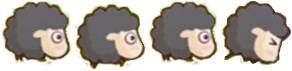
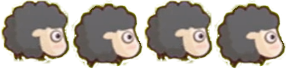
Go button and player sheep

diff --git a/js-final-project/bump-sheep/js/SheepGame.js b/js-final-project/bump-sheep/js/SheepGame.js
@@ -3,13 +3,12 @@ function SheepGame() {
     var width = 897;
     var height = 668;
 
-    var laneWidth = 897;
-    var laneHeight = 450;
-
     var sX = 0;
     var sY = 0;
 
     var sheep; //sheep instance
+    var playerSheep; //player sheep instance
+
     var tiles; // tile map
     var tileSize = 90;
 
@@ -25,8 +24,9 @@ function SheepGame() {
         canvas.width = width;
         canvas.height = height;
 
-        sheep = new Sheep(canvas, ctx, 314, 70, 5);
         tiles = new Tiles();
+        sheep = new Sheep(canvas, ctx, 314, 70, 5);
+        playerSheep = new PlayerSheep(canvas, ctx, 286, 70, 5);
 
         that.startGame();
 
@@ -35,11 +35,19 @@ function SheepGame() {
     this.startGame = function() {
         //main loop
         ctx.clearRect(0, 0, width, height);
-        that.renderMap();
-        sheep.init();
 
-        ctx.drawImage(bushRight, 0, 0, 88, 565, laneWidth - 88, 103, 88, 565);
+        //map creation
+        that.renderMap();
+
+        sheep.init();
+        playerSheep.init(that.y);
+
+        ctx.drawImage(bushRight, 0, 0, 88, 565, width - 88, 103, 88, 565);
         ctx.drawImage(bushLeft, 0, 0, 88, 565, 0, 103, 88, 565);
+
+        //go buttons
+        that.goBtnControl();
+
         requestAnimationFrame(that.startGame)
     }
 
@@ -48,7 +56,6 @@ function SheepGame() {
             for (var row = 0; row < mapW; row++) {
                 switch (gameMap[((col * mapW) + row)]) {
                     case 1:
-                        console.log(tiles);
                         tiles.x = row * tileSize;
                         tiles.y = col * tileSize;
                         tiles.tile1();
@@ -68,11 +75,46 @@ function SheepGame() {
                         tiles.tile3();
                         tiles.draw(ctx);
                         break;
+
+                    case 4:
+                        tiles.x = row * tileSize;
+                        tiles.y = col * tileSize;
+                        tiles.tile4();
+                        tiles.draw(ctx);
+                        break;
                 }
             }
         }
     }
 
+    this.goBtnControl = function() {
+        var btnWidth = 76;
+        var btnHeight = 76;
+        var btnX = 45;
+        var btnY;
+
+        //button draw
+        for (var i = 180; i <= tileSize * 6; i += 90) {
+            btnY = i;
+            ctx.drawImage(button, 0, 0, btnWidth, btnHeight, btnX, btnY, btnWidth, btnHeight);
+        }
+
+        //click action
+        canvas.addEventListener('mousedown', function(event) {
+            for (var i = 180; i <= tileSize * 6; i += 90) {
+                btnY = i;
+                let rect = canvas.getBoundingClientRect();
+                let clickX = event.clientX - rect.left;
+                let clickY = event.clientY - rect.top;
+                if (clickX >= btnX && clickX <= btnX + btnWidth &&
+                    clickY >= btnY && clickY <= btnY + btnHeight) {
+
+                    playerSheep.init(btnY);
+                }
+            }
+
+        });
+    }
 }
 
 var game = new SheepGame();

diff --git a/js-final-project/bump-sheep/js/Sheep.js b/js-final-project/bump-sheep/js/Sheep.js
@@ -8,26 +8,14 @@ function Sheep(canvas, ctx, width, height, weight) {
     var sX;
     var sY = 0;
     this.x = canvas.width - 75;
-    this.y = 170;
+    this.y;
 
     var tickCount = 0;
     var ticksPerFrame = 5;
-
-
     var currentFrame = 0;
+
     var that = this;
-
     this.lane;
-
-    // var smallWhite = {
-    //     width: 314 / numberOfFrames,
-    //     height: 70,
-    //     weight: 5,
-    //     draw: function() {
-    //         sX = currentFrame * smallWhite.width;
-    //         ctx.drawImage(smallWhiteSprite, sX, sY, this.width, this.height, that.x, that.y, this.width, this.height);
-    //     }
-    // }
 
     this.init = function() {
         that.draw();
@@ -46,25 +34,28 @@ function Sheep(canvas, ctx, width, height, weight) {
         } else
             return 530;
     }
+    that.y = that.getRandomPosition();
 
     this.update = function() {
         tickCount += 1;
-
         if (tickCount > ticksPerFrame) {
             tickCount = 0;
+
             if (currentFrame < numberOfFrames - 1) {
                 currentFrame++;
             } else currentFrame = 0;
         }
-
         that.x -= 2;
-
     }
 
     this.draw = function() {
         that.update();
         sX = currentFrame * that.width;
-        ctx.drawImage(smallWhiteSprite, sX, sY, this.width, this.height, that.x, that.y, this.width, this.height);
+
+        if (this.weight == 5) {
+            ctx.drawImage(smallWhiteSprite, sX, sY, this.width, this.height, that.x, that.y, this.width, this.height);
+        }
+
         // mediumWhite.draw();
         // smallWhite.draw();
     }

diff --git a/js-final-project/bump-sheep/js/PlayerSheep.js b/js-final-project/bump-sheep/js/PlayerSheep.js
@@ -1,12 +1,45 @@
-function PlayerSheep(width, height, weight) {
-    this.width = width;
+function PlayerSheep(canvas, ctx, width, height, weight) {
+
+    var numberOfFrames = 4;
+    this.width = width / numberOfFrames;
     this.height = height;
     this.weight = weight;
 
     var sX;
-    var sY;
-    this.x;
+    var sY = 0;
+    this.x = 75;
     this.y;
+
+    var tickCount = 0;
+    var ticksPerFrame = 5;
+    var currentFrame = 0;
+
+    var that = this;
+
+    this.init = function(btnY) {
+        this.y = btnY;
+        that.draw();
+    }
+    this.update = function() {
+
+        tickCount += 1;
+        if (tickCount > ticksPerFrame) {
+            tickCount = 0;
+            if (currentFrame < numberOfFrames - 1) {
+                currentFrame++;
+            } else currentFrame = 0;
+        }
+        that.x += 2;
+    }
+
+    this.draw = function() {
+        that.update();
+
+        sX = currentFrame * that.width;
+        if (this.weight == 5) {
+            ctx.drawImage(smallBlackSprite, sX, sY, this.width, this.height, this.x, this.y, this.width, this.height);
+        }
+    }
 
 
 }

diff --git a/js-final-project/bump-sheep/js/loader.js b/js-final-project/bump-sheep/js/loader.js
@@ -5,7 +5,7 @@ var bushLeft = new Image();
 bushLeft.src = 'images/bush2.png'
 
 var button = new Image();
-button.src = ''
+button.src = 'images/button.png'
 
 var smallWhiteSprite = new Image();
 smallWhiteSprite.src = 'images/small-white.png';
@@ -20,5 +20,5 @@ var superLargeWhiteSprite = new Image();
 superLargeWhiteSprite.src = 'images/super-large-white.png'
 
 //black sheep
-var smallWhiteSprite = new Image();
-smallWhiteSprite.src = 'images/small-black.png';
+var smallBlackSprite = new Image();
+smallBlackSprite.src = 'images/small-black.png';

diff --git a/js-final-project/bump-sheep/js/Map.js b/js-final-project/bump-sheep/js/Map.js
@@ -7,10 +7,10 @@ var mapW = 10,
 var gameMap = [
     0, 0, 0, 0, 0, 0, 0, 0, 0, 0,
     0, 0, 0, 0, 0, 0, 0, 0, 0, 0,
-    1, 3, 1, 2, 1, 3, 2, 3, 1, 1,
-    1, 1, 2, 1, 3, 1, 3, 2, 3, 1,
-    1, 3, 1, 2, 1, 3, 2, 3, 1, 1,
-    1, 1, 2, 1, 3, 1, 3, 2, 3, 1,
-    1, 3, 1, 2, 1, 3, 2, 3, 1, 1,
+    4, 3, 1, 2, 1, 3, 2, 3, 1, 4,
+    4, 1, 2, 1, 3, 1, 3, 2, 3, 4,
+    4, 3, 1, 2, 1, 3, 2, 3, 1, 4,
+    4, 1, 2, 1, 3, 1, 3, 2, 3, 4,
+    4, 3, 1, 2, 1, 3, 2, 3, 1, 4,
     0, 0, 0, 0, 0, 0, 0, 0, 0, 0,
 ];

diff --git a/js-final-project/bump-sheep/js/Tiles.js b/js-final-project/bump-sheep/js/Tiles.js
@@ -27,6 +27,11 @@ function Tiles() {
         that.sX = 2 * that.width;
     }
 
+    this.tile4 = function() {
+        this.type = 4;
+        that.sX = 3 * that.width;
+    }
+
     this.draw = function(ctx) {
         ctx.drawImage(tiles, that.sX, that.sY, that.width, that.height, that.x, that.y, that.width, that.height);
 

diff --git a/js-final-project/bump-sheep/index.html b/js-final-project/bump-sheep/index.html
@@ -21,6 +21,7 @@
 
     <script src="js/Tiles.js"></script>
     <script src="js/Sheep.js"></script>
+    <script src="js/PlayerSheep.js"></script>
     <script src="js/SheepGame.js"></script>
 </body>
 

diff --git a/js-final-project/bump-sheep/css/style.css b/js-final-project/bump-sheep/css/style.css
@@ -7,5 +7,6 @@
 .game-container {
     margin: 0 auto;
     background: url('../images/ground.png');
+    background-size: contain;
     overflow: hidden;
 }
